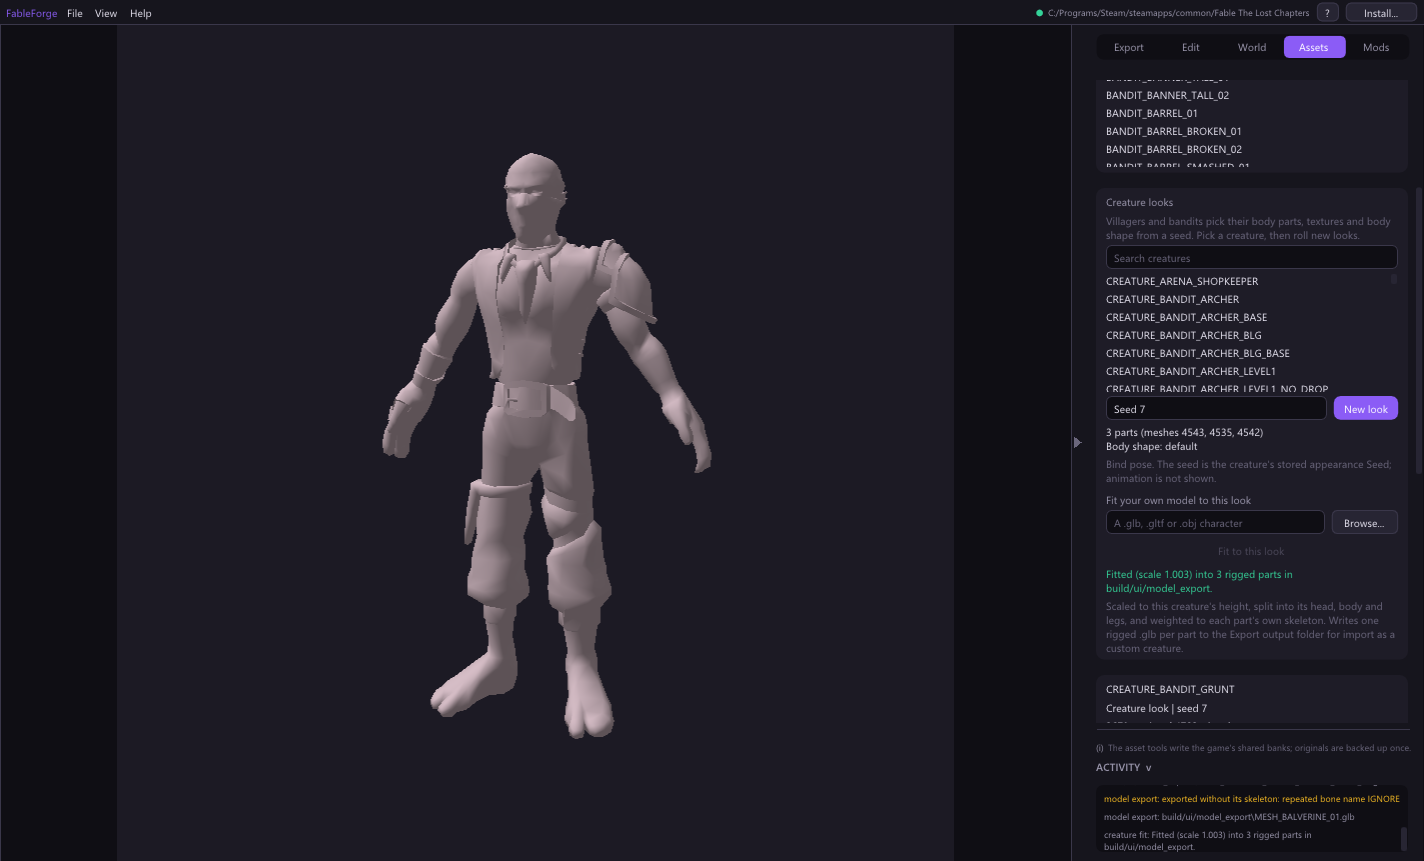
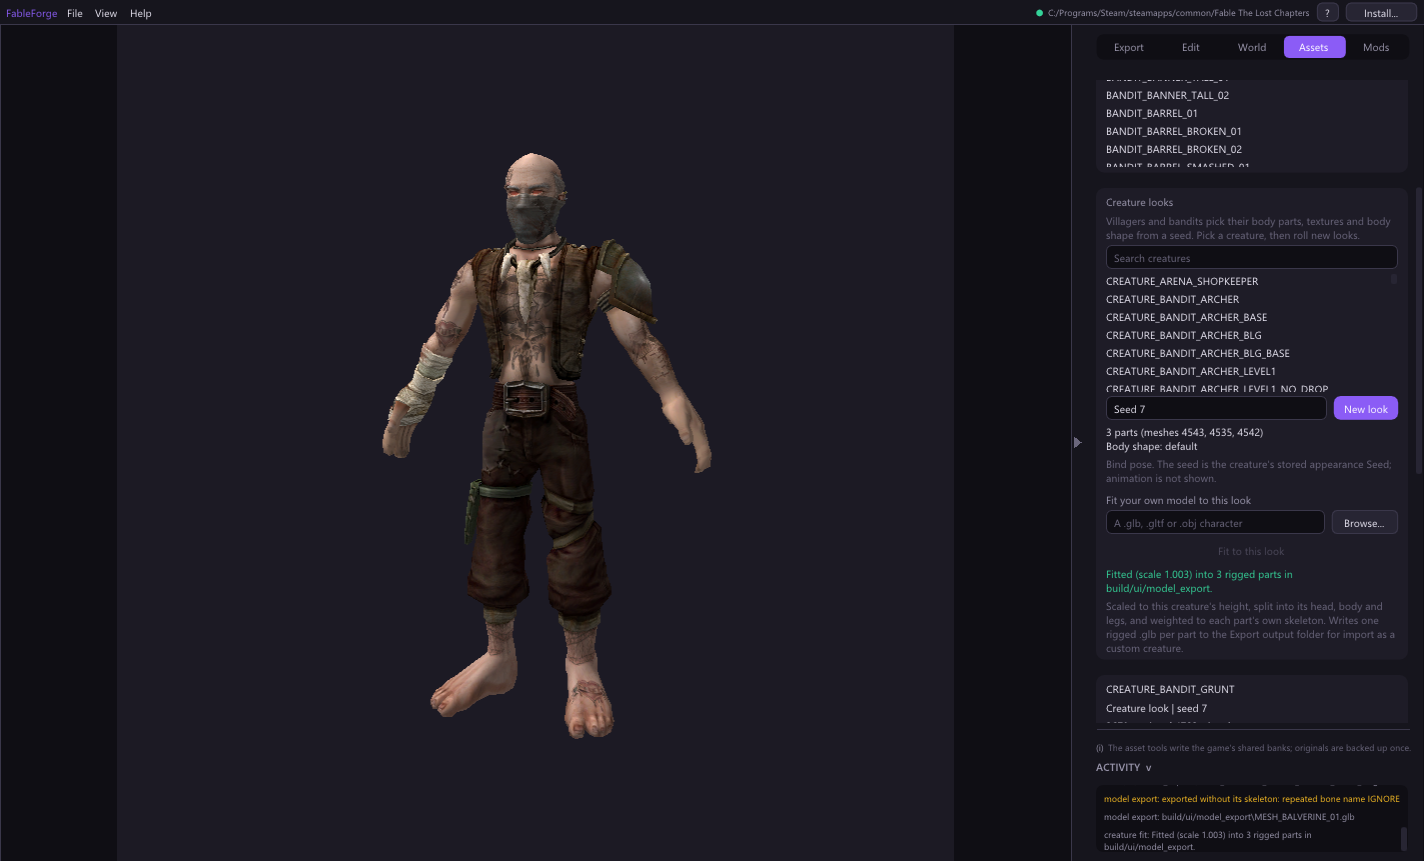
Carry a model's own textures through creature fitting
glTF base-colour textures (embedded, data URI or sidecar) are now kept
per material slot when a model is loaded, and fitted parts and the
editor preview reuse them. A fitted bandit shows its original textures,
the right way up, on another seed's skeletons.

Changed region(s): [[0.2472, 0.1812, 0.4944, 0.8757]]

diff --git a/src/meshimport.cpp b/src/meshimport.cpp
@@ -510,6 +510,41 @@ void readSkinAttributes(const GltfBuffers& g,const json& attributes,size_t count
     }
 }
 
+// Encoded bytes of a material's baseColorTexture image (bufferView, data URI or
+// sidecar file). Best effort: the geometry import never depends on it, so any
+// problem leaves the slot without an image and records a note.
+std::vector<uint8_t> baseColourImage(const GltfBuffers& g, const fs::path& path, size_t material,
+                                     std::vector<std::string>& notes) {
+    try {
+        const auto& m = g.doc.at("materials").at(material);
+        if (!m.contains("pbrMetallicRoughness") || !m["pbrMetallicRoughness"].contains("baseColorTexture")) return {};
+        const auto& texture = g.doc.at("textures").at(gltfSize(m["pbrMetallicRoughness"]["baseColorTexture"], "index"));
+        if (!texture.contains("source")) return {};
+        const auto& image = g.doc.at("images").at(gltfSize(texture, "source"));
+        if (image.contains("bufferView")) {
+            const auto& view = g.doc.at("bufferViews").at(gltfSize(image, "bufferView"));
+            const auto& buffer = g.buffers.at(gltfSize(view, "buffer"));
+            const size_t offset = view.contains("byteOffset") ? gltfSize(view, "byteOffset") : 0, length = gltfSize(view, "byteLength");
+            if (offset > buffer.size() || length > buffer.size() - offset) throw std::runtime_error("image view outside its buffer");
+            return {buffer.begin() + std::ptrdiff_t(offset), buffer.begin() + std::ptrdiff_t(offset + length)};
+        }
+        const std::string uri = image.at("uri").get<std::string>();
+        if (uri.rfind("data:", 0) == 0) {
+            // Same base64 payload rules as buffers; only the media type differs.
+            const size_t comma = uri.find(',');
+            if (comma == std::string::npos || uri.substr(0, comma).find(";base64") == std::string::npos)
+                throw std::runtime_error("image data URI is not base64");
+            return decodeBufferUri("data:application/octet-stream;base64" + uri.substr(comma));
+        }
+        const auto decoded = decodeUriEscapes(uri);
+        if (decoded.find('\0') != std::string::npos) throw std::runtime_error("NUL in image URI");
+        return readFile(path.parent_path() / fs::u8path(decoded));
+    } catch (const std::exception& e) {
+        notes.push_back("material " + std::to_string(material) + ": base colour texture not read (" + e.what() + ")");
+        return {};
+    }
+}
+
 Model loadGltf(const fs::path& path,bool skinned=false) {
     Model model;
     const GltfBuffers g = openGltf(path,skinned);
@@ -537,6 +572,7 @@ Model loadGltf(const fs::path& path,bool skinned=false) {
         if (it != slotOf.end()) return it->second;
         const int slot = int(model.materialNames.size());
         model.materialNames.push_back(name); slotOf[identity] = slot;
+        model.materialImages.push_back(identity ? baseColourImage(g, path, *identity, model.notes) : std::vector<uint8_t>{});
         return slot;
     };
     // Traverse the selected scene iteratively: malformed cycles and deep valid
@@ -702,7 +738,7 @@ Model loadGltf(const fs::path& path,bool skinned=false) {
             }
         }
     }
-    if (model.materialNames.empty()) model.materialNames.push_back("default");
+    if (model.materialNames.empty()) { model.materialNames.push_back("default"); model.materialImages.emplace_back(); }
     return model;
 }
 
@@ -840,7 +876,7 @@ Model loadObj(const fs::path& path) {
         auto it = slotOf.find(name);
         if (it != slotOf.end()) return it->second;
         const int s = int(model.materialNames.size());
-        model.materialNames.push_back(name); slotOf[name] = s;
+        model.materialNames.push_back(name); model.materialImages.emplace_back(); slotOf[name] = s;
         return s;
     };
     slot = ensureSlot("default");

diff --git a/gui/textures.cpp b/gui/textures.cpp
@@ -615,22 +615,34 @@ bool App::fitModelToLook(const std::string& model) {
         std::string stem = creatureLookName_ + "_seed" + std::to_string(creatureLookSeed_) + "_fit";
         size_t written = 0;
         forge::creatureassembly::Assembly preview;
+        // Fitted materials are the input primitives; map each to its material slot.
+        std::vector<int> slotOfMaterial, previewSlots;
+        for (const auto& prim : input.prims) slotOfMaterial.push_back(prim.material);
+        for (const auto& note : input.notes) pushLog("creature fit: " + note, 1);
         for (size_t i = 0; i < fitted.parts.size(); ++i) {
             const auto& part = fitted.parts[i];
             if (part.geometry.triangles.empty()) continue;
             const auto name = stem + "_body" + std::to_string(assembly.parts[i].body) + "_alt" + std::to_string(assembly.parts[i].alternative);
             std::vector<terrainexport::Image> images; std::map<uint32_t, int> ids; std::vector<std::string> warnings;
             const terrainexport::Context noTextures;
-            const auto mesh = foliageexport::makeMesh(assembly.parts[i].mesh, name, name, part.geometry, false, noTextures, images, ids, warnings);
+            auto mesh = foliageexport::makeMesh(assembly.parts[i].mesh, name, name, part.geometry, false, noTextures, images, ids, warnings);
+            std::map<int, int> decoded;
+            skinnedexport::attachInputTextures(mesh, images, slotOfMaterial, input.materialImages, decoded, warnings);
+            for (const auto& warning : warnings) pushLog("creature fit: " + warning, 1);
             skinnedexport::write(mesh, images, std::filesystem::u8path(folder) / (name + ".glb"));
             ++written;
             forge::creatureassembly::Part shown; shown.mesh = assembly.parts[i].mesh; shown.posed = part.geometry;
             preview.parts.push_back(std::move(shown));
+            previewSlots.insert(previewSlots.end(), slotOfMaterial.begin(), slotOfMaterial.end());
         }
-        // Show the fitted parts (already in the donor's bind space) in the viewport.
+        // Show the fitted parts (already in the donor's bind space) in the viewport,
+        // with the input's own textures; merge() concatenates each part's materials.
         modelGeometry_ = forge::creatureassembly::merge(preview);
         std::vector<terrainexport::Image> images; std::map<uint32_t, int> textureIds; std::vector<std::string> warnings;
-        modelReady_ = renderer_.setModelPreview(foliageexport::makeMesh(0, modelName_, modelName_, modelGeometry_, false, ctx_, images, textureIds, warnings), images);
+        auto shownMesh = foliageexport::makeMesh(0, modelName_, modelName_, modelGeometry_, false, ctx_, images, textureIds, warnings);
+        std::map<int, int> decoded;
+        skinnedexport::attachInputTextures(shownMesh, images, previewSlots, input.materialImages, decoded, warnings);
+        modelReady_ = renderer_.setModelPreview(shownMesh, images);
         char scale[32]; std::snprintf(scale, sizeof scale, "%.3f", fitted.scale);
         creatureFitStatus_ = "Fitted (scale " + std::string(scale) + ") into " + std::to_string(written) + " rigged parts in " + folder + ".";
         pushLog("creature fit: " + creatureFitStatus_, 0);

diff --git a/src/skinnedexport.cpp b/src/skinnedexport.cpp
@@ -9,6 +9,7 @@
 
 #include "exportfiles.hpp"
 #include "glbwriter.hpp"
+#include "forge/texturewrite.hpp"
 
 namespace albion::skinnedexport {
 namespace {
@@ -188,6 +189,35 @@ std::vector<uint8_t> build(const foliageexport::Mesh& mesh, const std::vector<te
     out.insert(out.end(), js.begin(), js.end());
     out.insert(out.end(), binChunk.begin(), binChunk.end());
     return out;
+}
+
+void attachInputTextures(foliageexport::Mesh& mesh, std::vector<terrainexport::Image>& images,
+                         const std::vector<int>& slotOfMaterial,
+                         const std::vector<std::vector<uint8_t>>& materialImages,
+                         std::map<int, int>& decoded, std::vector<std::string>& warnings) {
+    for (auto& part : mesh.parts) {
+        if (part.material < 0 || size_t(part.material) >= slotOfMaterial.size()) continue;
+        const int slot = slotOfMaterial[size_t(part.material)];
+        if (slot < 0 || size_t(slot) >= materialImages.size() || materialImages[size_t(slot)].empty()) continue;
+        auto found = decoded.find(slot);
+        if (found == decoded.end()) {
+            std::string error;
+            const auto image = forge::texturewrite::decodeImage(materialImages[size_t(slot)], error);
+            int index = -1;
+            if (error.empty()) {
+                terrainexport::Image out;
+                out.width = uint32_t(image.width); out.height = uint32_t(image.height);
+                out.rgba = image.rgba; out.name = mesh.name + "_material" + std::to_string(slot);
+                images.push_back(std::move(out));
+                index = int(images.size() - 1);
+            } else warnings.push_back("material slot " + std::to_string(slot) + ": " + error);
+            found = decoded.emplace(slot, index).first;
+        }
+        if (found->second < 0) continue;
+        part.image = found->second;
+        const auto& rgba = images[size_t(found->second)].rgba;
+        for (size_t i = 3; i < rgba.size(); i += 4) if (rgba[i] < 255) { part.hasAlpha = true; break; }
+    }
 }
 
 std::vector<fs::path> write(const foliageexport::Mesh& mesh, const std::vector<terrainexport::Image>& images,

diff --git a/src/cli/creatures.cpp b/src/cli/creatures.cpp
@@ -62,13 +62,19 @@ static int runCreatureFit(const Args& args) {
     fs::create_directories(output);
     nlohmann::json report{{"creature",positional[1]},{"seed",seed},{"scale",fitted.scale},{"offset",fitted.offset},{"parts",nlohmann::json::array()}};
     const terrainexport::Context noTextures;
+    std::vector<int> slotOfMaterial;for(const auto& prim:model.prims)slotOfMaterial.push_back(prim.material);
+    for(const auto& note:model.notes) std::cerr<<"note: "<<note<<'\n';
     for(size_t i=0;i<fitted.parts.size();++i) {
         const auto& source=assembly.parts[i];const auto& part=fitted.parts[i];
         nlohmann::json row{{"body",source.body},{"alternative",source.alternative},{"donor_mesh",source.mesh},{"triangles",part.sourceTriangles}};
         if(part.geometry.triangles.empty()) {row["skipped"]="no input triangles nearest this part";report["parts"].push_back(row);continue;}
         std::vector<terrainexport::Image> images;std::map<uint32_t,int> ids;std::vector<std::string> warnings;
         const auto stem=positional[1]+"_body"+std::to_string(source.body)+"_alt"+std::to_string(source.alternative);
-        const auto mesh=foliageexport::makeMesh(source.mesh,stem,stem,part.geometry,false,noTextures,images,ids,warnings);
+        auto mesh=foliageexport::makeMesh(source.mesh,stem,stem,part.geometry,false,noTextures,images,ids,warnings);
+        std::map<int,int> decoded;
+        skinnedexport::attachInputTextures(mesh,images,slotOfMaterial,model.materialImages,decoded,warnings);
+        for(const auto& warning:warnings) std::cerr<<"warning: "<<warning<<'\n';
+        row["textures"]=images.size();
         const auto path=output/(stem+".glb");
         skinnedexport::write(mesh,images,path);
         const auto written=path.u8string();

diff --git a/src/skinnedexport.hpp b/src/skinnedexport.hpp
@@ -7,9 +7,12 @@
 
 #include <cstdint>
 #include <filesystem>
+#include <map>
+#include <string>
 #include <vector>
 
 #include "foliageexport.hpp"
+#include "forge/meshcompose.hpp"
 
 namespace albion::skinnedexport {
 
@@ -24,5 +27,15 @@ std::vector<uint8_t> build(const foliageexport::Mesh& mesh, const std::vector<te
 std::vector<std::filesystem::path> write(const foliageexport::Mesh& mesh,
                                          const std::vector<terrainexport::Image>& images,
                                          const std::filesystem::path& out);
+
+// For fitted geometry: `slotOfMaterial[m]` is the input material slot behind mesh
+// material m (characterfit materials = input primitives). Give each mesh part that
+// slot's decoded base-colour image, appending decoded
+// images to `images` once per material slot (`decoded` caches slot -> image index).
+// Undecodable images are skipped with a warning; parts stay untextured.
+void attachInputTextures(foliageexport::Mesh& mesh, std::vector<terrainexport::Image>& images,
+                         const std::vector<int>& slotOfMaterial,
+                         const std::vector<std::vector<uint8_t>>& materialImages,
+                         std::map<int, int>& decoded, std::vector<std::string>& warnings);
 
 } // namespace albion::skinnedexport

diff --git a/libs/forgecore/src/texturewrite.cpp b/libs/forgecore/src/texturewrite.cpp
@@ -137,6 +137,18 @@ Image loadImage(const std::string& path, std::string& error) {
     return out;
 }
 
+Image decodeImage(const std::vector<uint8_t>& bytes, std::string& error) {
+    Image out;
+    int w = 0, h = 0, n = 0;
+    if (bytes.empty() || bytes.size() > size_t(std::numeric_limits<int>::max())) { error = "cannot decode image: empty or too large"; return out; }
+    unsigned char* data = stbi_load_from_memory(bytes.data(), int(bytes.size()), &w, &h, &n, 4);
+    if (!data) { error = std::string("cannot decode image: ") + (stbi_failure_reason() ? stbi_failure_reason() : "unknown"); return out; }
+    out.width = w; out.height = h;
+    out.rgba.assign(data, data + size_t(w) * size_t(h) * 4);
+    stbi_image_free(data);
+    return out;
+}
+
 Image downsample(const Image& img) {
     Image out;
     out.width = std::max(1, img.width >> 1); out.height = std::max(1, img.height >> 1);

diff --git a/src/meshimport.hpp b/src/meshimport.hpp
@@ -41,6 +41,9 @@ struct SkinBinding {
 struct Model {
     std::vector<forge::meshcompose::Primitive> prims;   // one per glTF primitive / OBJ material group, in Fable space
     std::vector<std::string> materialNames;             // per slot
+    // Encoded base-colour image per slot (glTF baseColorTexture; empty when none, for OBJ,
+    // or when unreadable, which adds a note). Read-only context: imports never use it.
+    std::vector<std::vector<uint8_t>> materialImages;
     std::vector<std::string> notes;
     std::vector<SkinBinding> skins; // loadSkinnedModel only, parallel to prims
     struct SourceFile {std::filesystem::path path,resolved;std::string sha256;};

diff --git a/libs/forgecore/include/forge/texturewrite.hpp b/libs/forgecore/include/forge/texturewrite.hpp
@@ -33,6 +33,8 @@ struct Image {
 
 // PNG/JPG/BMP/TGA through stb_image. Empty image + error on failure.
 Image loadImage(const std::string& path, std::string& error);
+// The same decoders over encoded bytes in memory (e.g. a glTF material image).
+Image decodeImage(const std::vector<uint8_t>& bytes, std::string& error);
 // Resample to (w, h): 2x2 box when halving exactly, bilinear otherwise.
 Image resample(const Image& img, int w, int h);
 Image downsample(const Image& img);   // one mip step (box filter; odd dims nearest)

diff --git a/docs/HANDOFF_CREATURE_ASSEMBLY_2026-10-26.md b/docs/HANDOFF_CREATURE_ASSEMBLY_2026-10-26.md
@@ -179,3 +179,10 @@ previewing the fit (untextured). Owner choice now uses one global 32-nearest que
 sample point (absent parts take the 32nd distance as a lower bound): the fit went from
 ~40 s to ~1 s with unchanged oracle fidelity. UI script passes; guide section added.
 Next: carry input textures into preview/parts, an "import all parts" action, in-game check.
+
+Textures: meshimport::Model now keeps each glTF material slot's encoded base-colour image
+(`materialImages`: bufferView, data URI or sidecar; best effort with a note), decoded by
+`texturewrite::decodeImage`; `skinnedexport::attachInputTextures` puts them on fitted parts
+(CLI + GUI) and the GUI preview. The fitted seed-3 bandit renders fully textured on the
+seed-7 skeletons (docs/guide/img/creature_fit.png), the right way up, which also cross-checks
+the V fix along export -> loadModel -> fit -> preview. Textured parts still pass `--glb`.

diff --git a/docs/guide/creature-looks.md b/docs/guide/creature-looks.md
@@ -30,6 +30,8 @@ the look's head, body and legs, and gives each piece the skin weights of the par
 it replaces. One rigged .glb per part goes to the output folder on the Export tab,
 named `<CREATURE>_seed<N>_fit_body<b>_alt<a>.glb`; import each into its body slot as
 a custom creature. The command line does the same: `forge creature-fit`.
+Textures embedded in a .glb/.gltf (base colour) come along into the preview and
+the rigged parts.
 
 ![A bandit body fitted onto another seed's parts](img/creature_fit.png)
 
